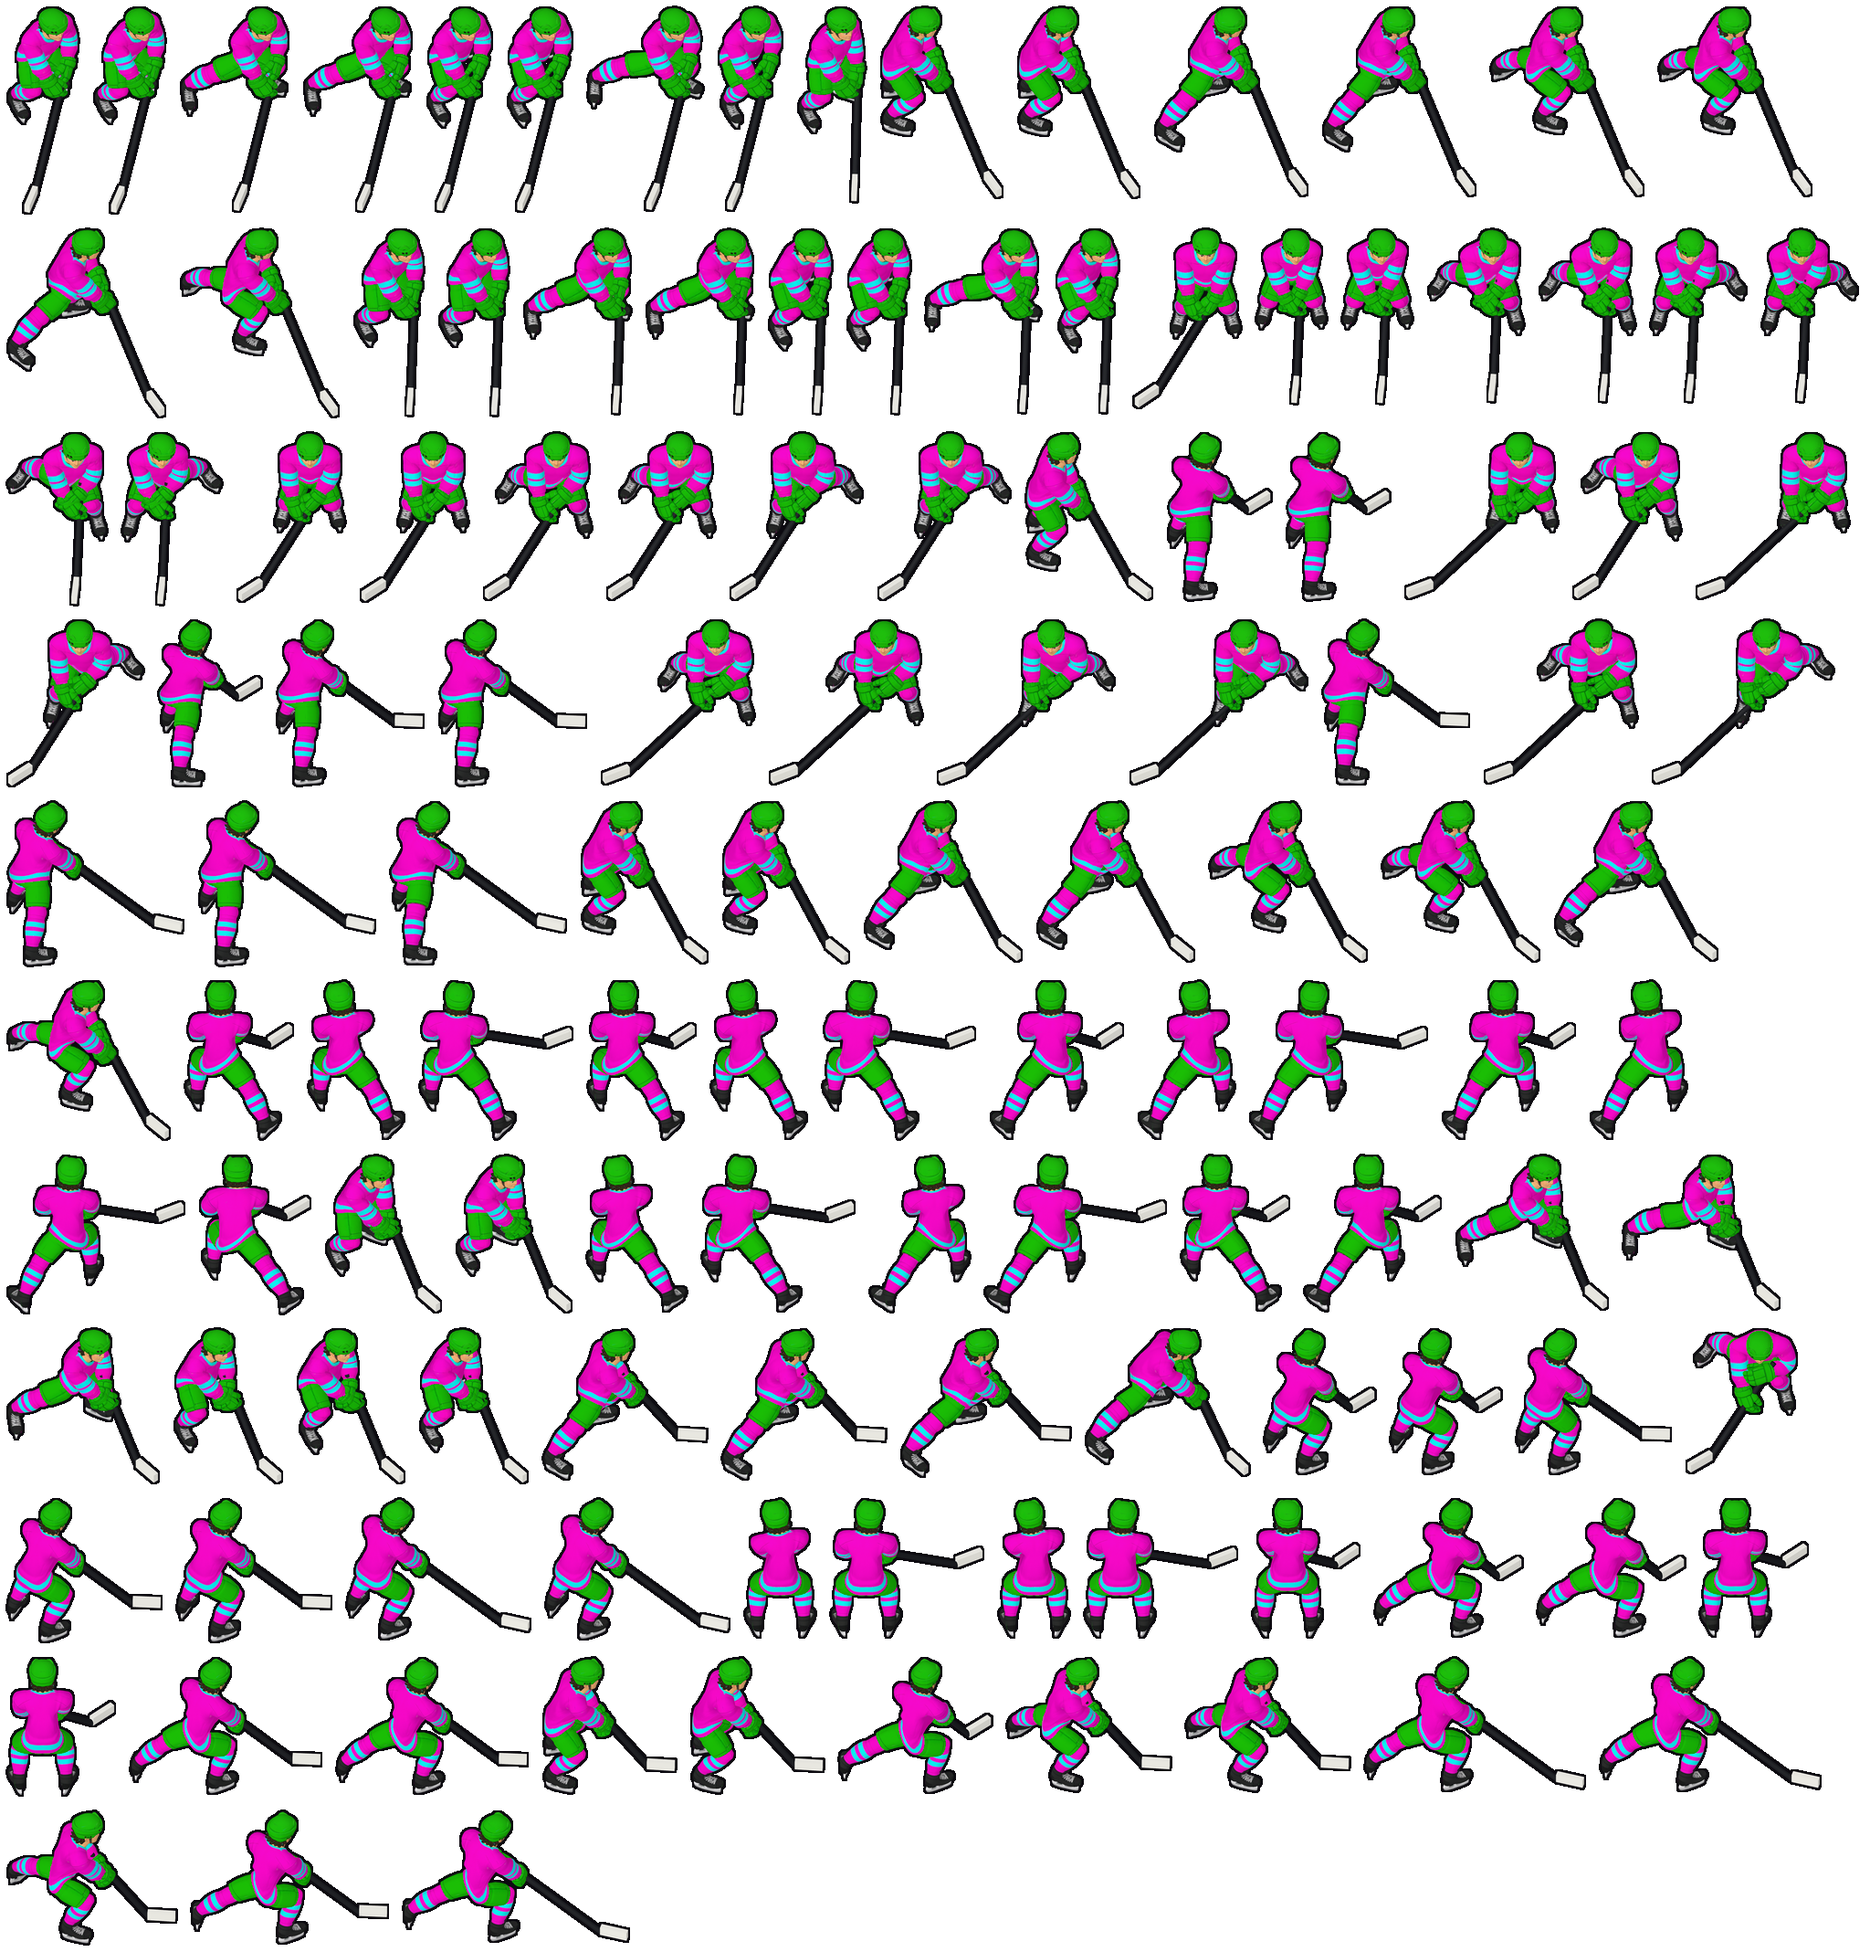
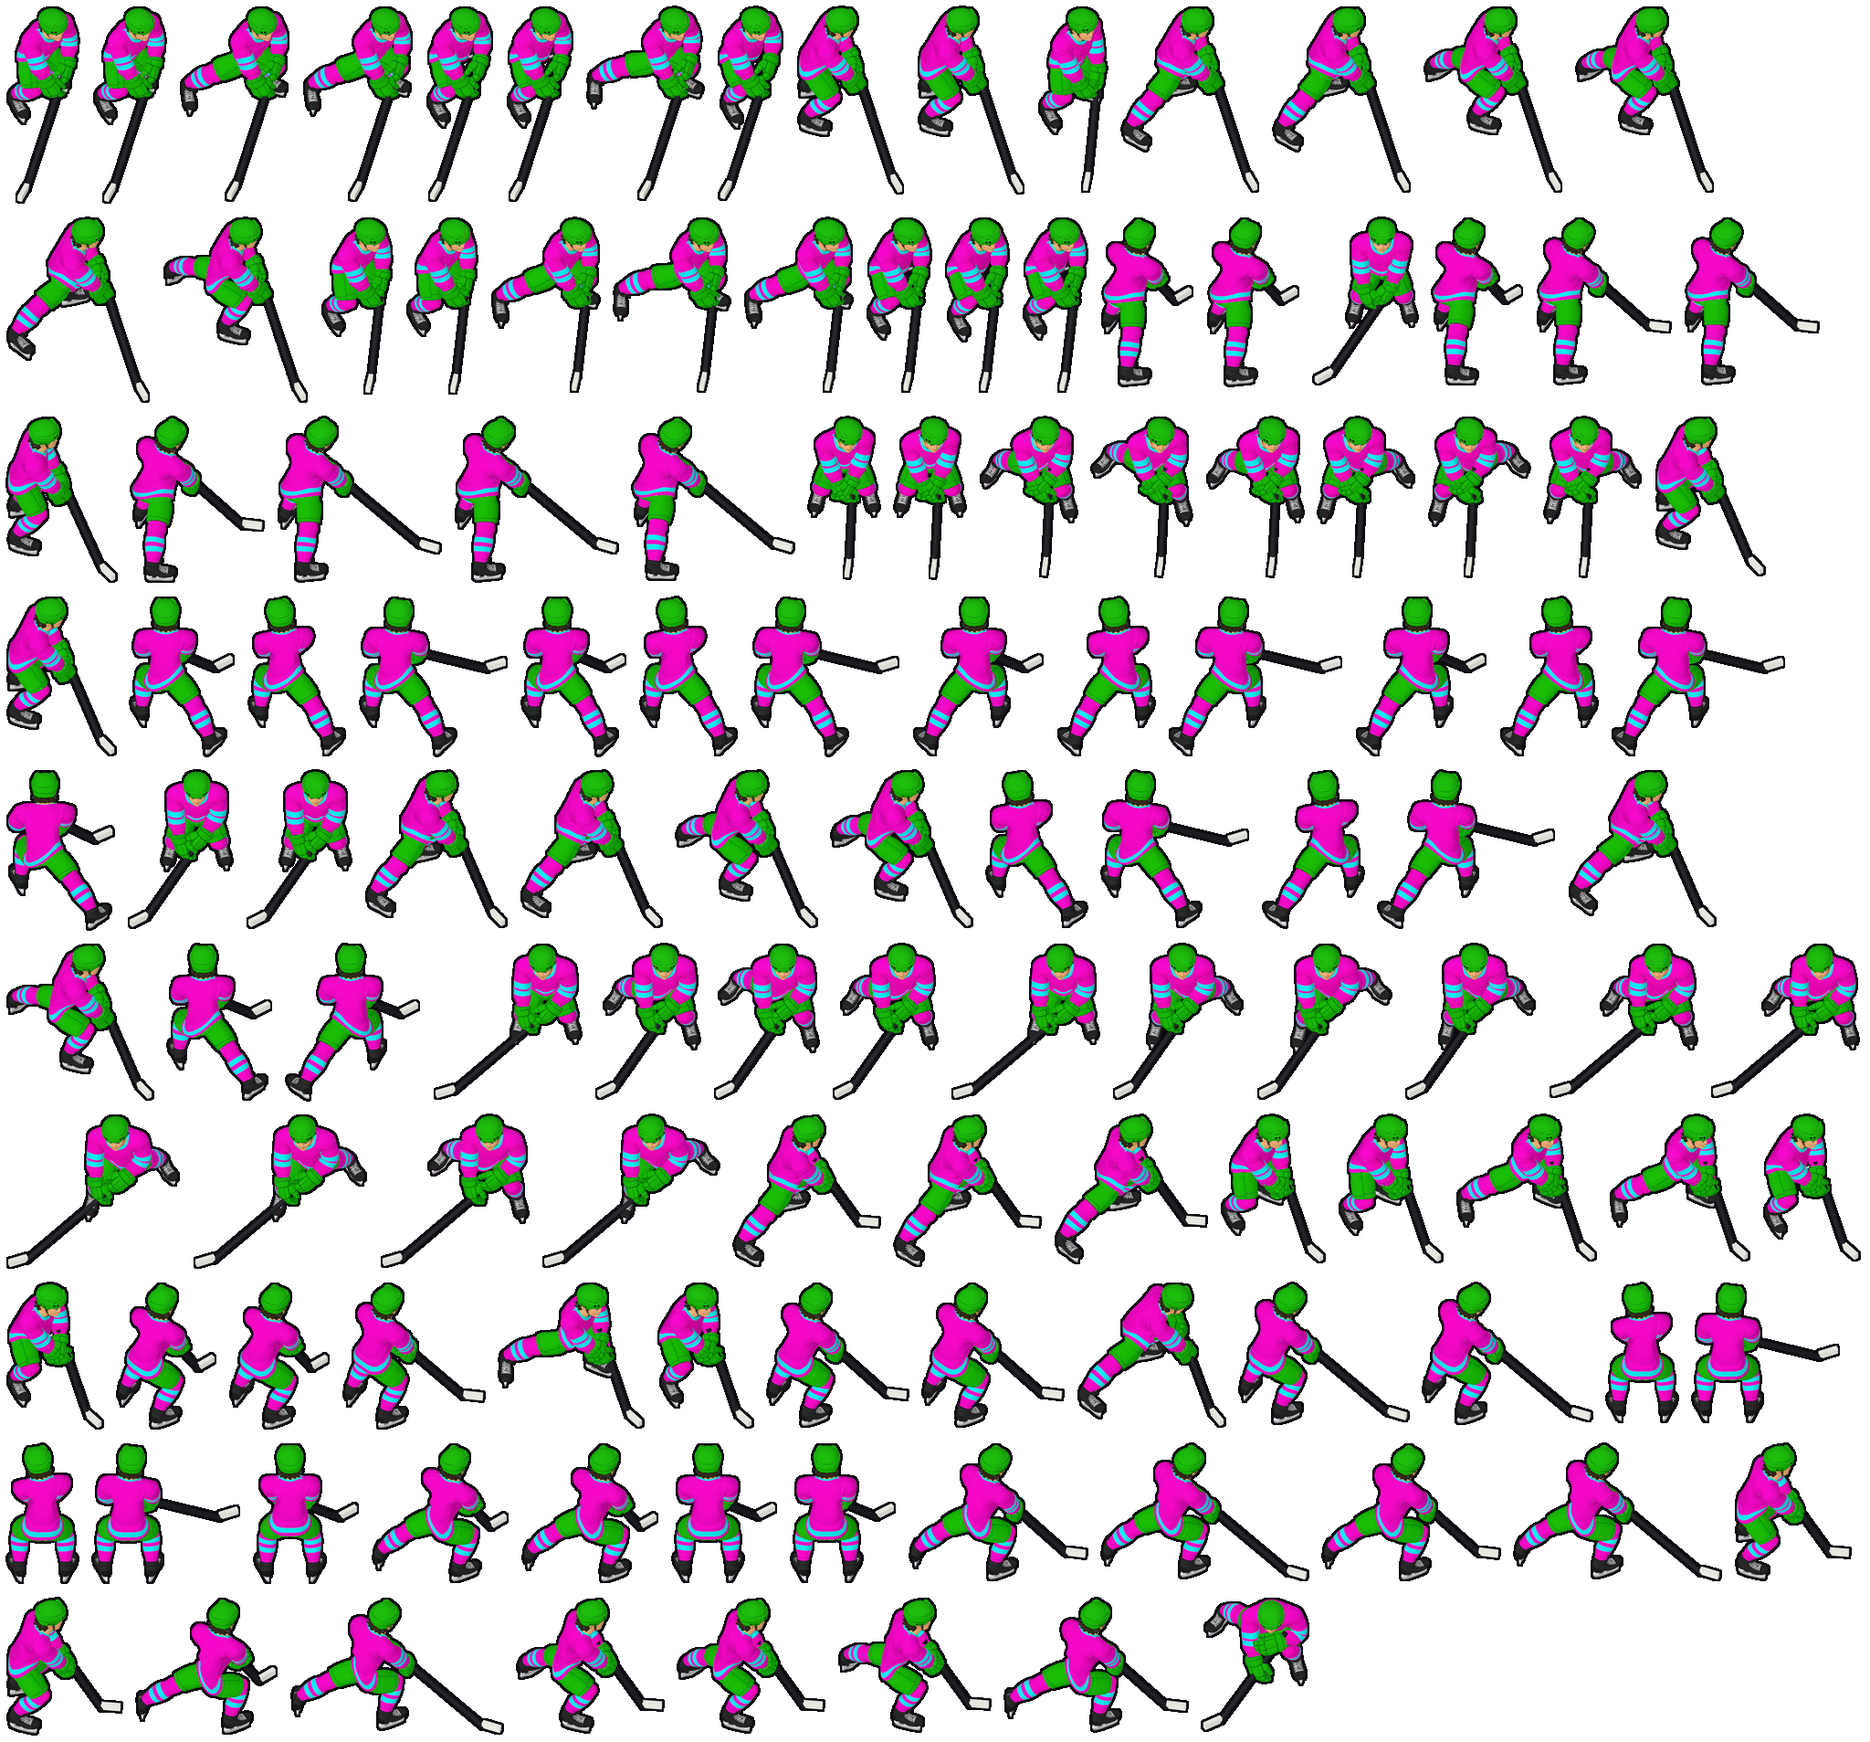
Shorter stick/blade on 3D skaters; more forgiving puck pickup
- Stick reach 0.98 -> 0.86, blade 0.30x0.11 -> 0.21x0.075
- Controlled skater reaches 4.4 (was 2.5) for loose pucks/passes that aren't shots and accepts pucks moving up to 70 past him
  (was 38); pass targets reach 3.4. Shots on net keep the old reach so blocks and saves are unchanged

Claude-Session: https://claude.ai/code/session_01C1NNpwu4j5whhZu1LUULbA

diff --git a/tools/skater3d/pose.html b/tools/skater3d/pose.html
@@ -47,7 +47,7 @@ function pose(o){ // o: {phi,u,yaw,lean,low}
   const tgtL=fL.clone().add(V(dL[0],dL[1],dL[2])), tgtR=fR.clone().add(V(dR[0],dR[1],dR[2]));
   ik2(B.LeftUpLeg,B.LeftLeg,B.LeftFoot,tgtL,V(0.15,0.2,1)); ik2(B.RightUpLeg,B.RightLeg,B.RightFoot,tgtR,V(-0.15,0.2,1));
   setW(B.LeftFoot,aax(Y,dL[3]).multiply(restW.LeftFoot)); setW(B.RightFoot,aax(Y,dR[3]).multiply(restW.RightFoot));
-  const P=V(-o.u,0.0,0.98), T=V(0.10,0.86,0.40+(lean-0.2)*0.4);
+  const P=V(-o.u,0.0,0.86), T=V(0.10,0.86,0.40+(lean-0.2)*0.4);
   const dir=P.clone().sub(T).normalize(), dist=P.distanceTo(T);
   const butt=T.clone().sub(dir.clone().multiplyScalar(0.10)), low2=T.clone().add(dir.clone().multiplyScalar(0.46));
   root.updateMatrixWorld(true);
@@ -58,7 +58,7 @@ function pose(o){ // o: {phi,u,yaw,lean,low}
   const L=butt.distanceTo(P); const sh=new THREE.Mesh(new THREE.CylinderGeometry(0.030,0.030,L,10),m1);
   sh.position.copy(butt.clone().add(P).multiplyScalar(.5)); sh.quaternion.setFromUnitVectors(V(0,1,0),P.clone().sub(butt).normalize()); stick.add(sh);
   const bd=V(P.x-T.x,0,P.z-T.z).normalize(); const ba=Math.atan2(bd.x,bd.z);
-  const bl=new THREE.Mesh(new THREE.BoxGeometry(0.06,0.11,0.30),m2); bl.position.set(P.x+bd.x*0.12,0.055,P.z+bd.z*0.12); bl.rotation.y=ba; stick.add(bl);
+  const bl=new THREE.Mesh(new THREE.BoxGeometry(0.05,0.075,0.21),m2); bl.position.set(P.x+bd.x*0.09,0.038,P.z+bd.z*0.09); bl.rotation.y=ba; stick.add(bl);
   rig.rotation.y=o.yaw; rig.updateMatrixWorld(true);
   return P;
 }

diff --git a/index.html b/index.html
@@ -1235,10 +1235,13 @@ function updPuck(dt){
       if(P.pickBlock===s && P.pickBlockT>0) continue;
       const sx=s.x+Math.cos(s.face)*1.7, sy=s.y+Math.sin(s.face)*1.7;
       const body=hyp(s.x-P.x,s.y-P.y), d=Math.min(hyp(sx-P.x,sy-P.y),body-.4);
-      const reach=s===G.ctrl?2.5:2.1;
+      // forgiving pickup: your skater (and the target of a pass) will reach out for a loose puck or pass that goes by nearby;
+      // shots on net keep the tighter reach so blocks/saves play as before
+      const intended=P.pass&&P.pass.to===s, soft=!P.shot, you=s===G.ctrl;
+      const reach=soft?(you?PICK_YOU:intended?PICK_PASS:2.1):(you?2.5:2.1);
       if(d<reach){
-        const rel=hyp(P.vx-s.vx,P.vy-s.vy), intended=P.pass&&P.pass.to===s;
-        let ok=rel<38||(intended&&rel<100);
+        const rel=hyp(P.vx-s.vx,P.vy-s.vy);
+        let ok=rel<38||(intended&&rel<100)||(soft&&you&&rel<PICK_SPD);
         if(!ok && !P.tried.has(s)){
           P.tried.add(s);
           ok=Math.random()<(P.shot?.12:.42)*(s===G.ctrl?1.3:1);
@@ -1252,6 +1255,8 @@ function updPuck(dt){
     }
   }
 }
+// pickup forgiveness (world units / speed): how far your controlled skater reaches for a loose puck, and how fast a puck can be moving past you
+const PICK_YOU=4.4, PICK_PASS=3.4, PICK_SPD=70;
 function receive(s){
   const P=G.P, wasPass=P.pass&&P.pass.to===s, picked=P.pass&&P.pass.from.team!==s.team&&!s.g;
   if(wasPass&&!picked) fx(s.x,s.y,'ring','#5fb8ff',2.8);
